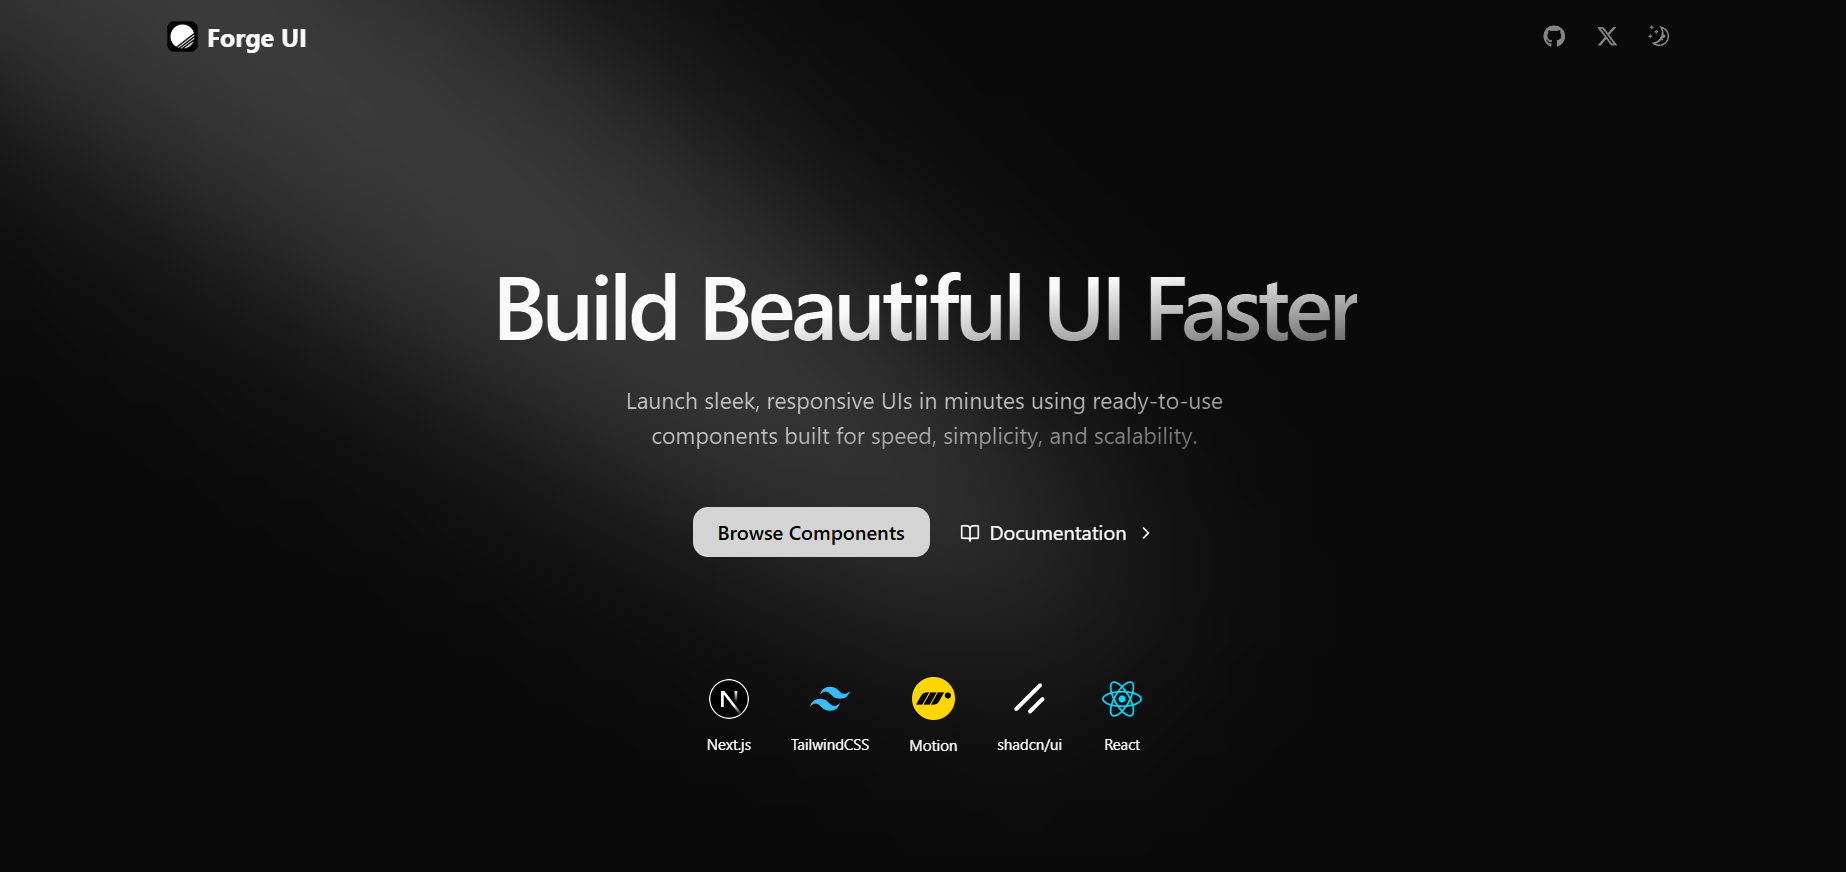
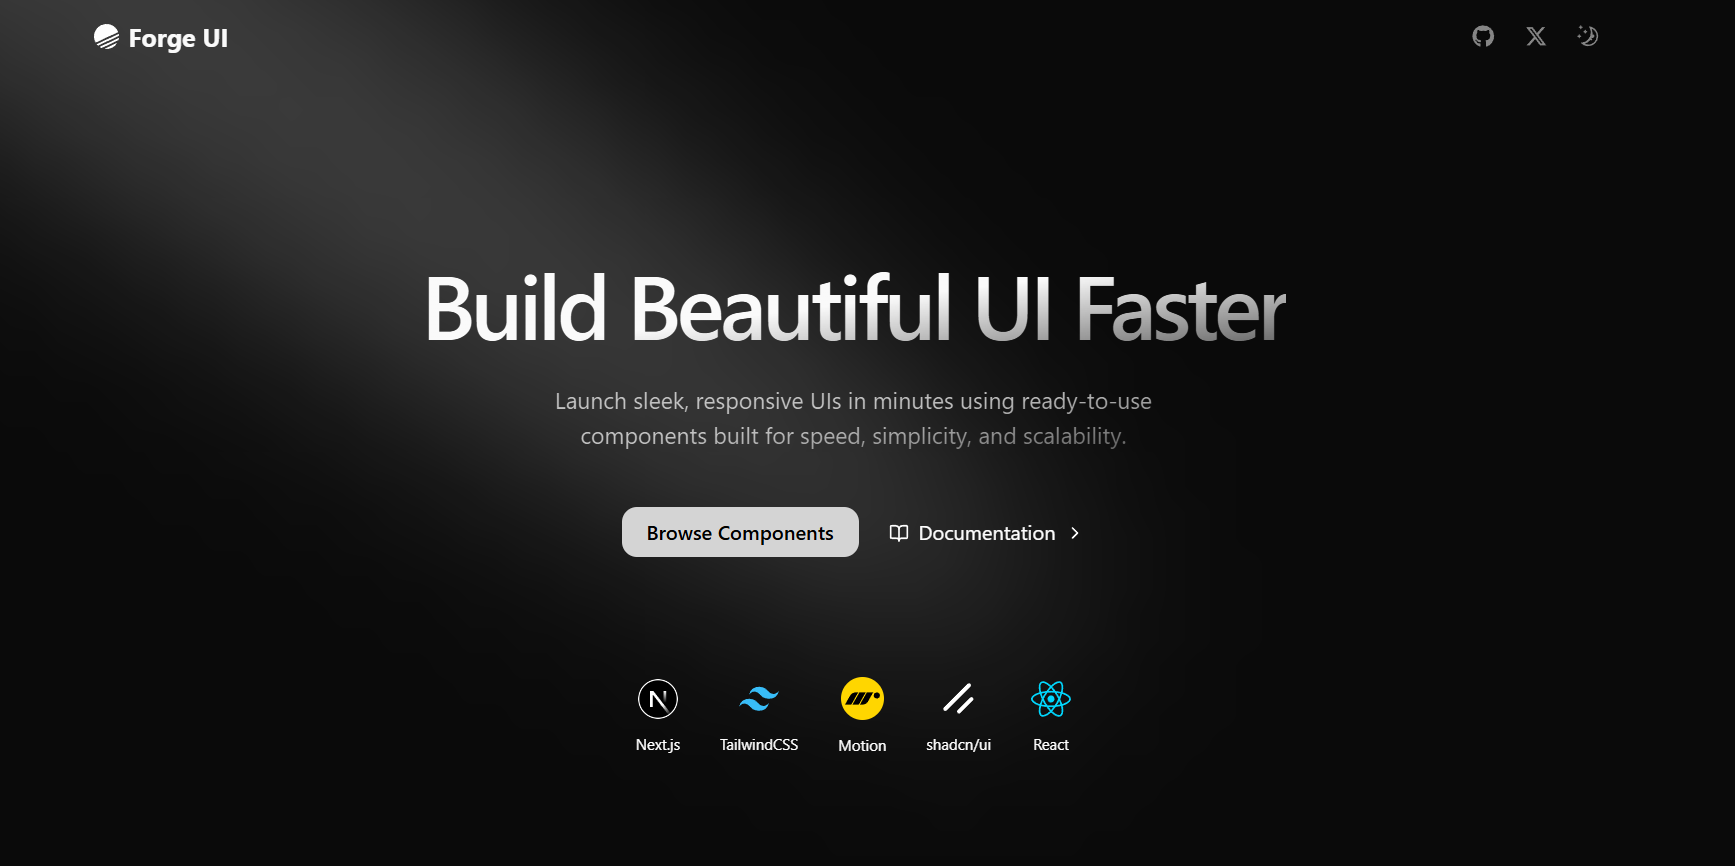
chore: minor changes

diff --git a/components/layout/navbar-drawer.tsx b/components/layout/navbar-drawer.tsx
@@ -10,11 +10,11 @@ import {
 } from "@/components/ui/sheet";
 import { eliteItems, introItems, primaryItems } from "@/contants";
 import { HiOutlineMenuAlt2 } from "react-icons/hi";
-import Image from "next/image";
 import Link from "next/link";
 import TextShimmer from "@/app/(primary)/components/text-shimmer/_components/text-shimmer";
 import Anchor from "../ui/anchor-single";
 import { ScrollArea } from "../ui/scroll-area";
+import { MyIcon } from "../icons/logo";
 
 const NavbarDrawer = () => {
   const sortedPrimaryItems = [...primaryItems].sort((a, b) =>
@@ -33,16 +33,8 @@ const NavbarDrawer = () => {
       <SheetContent side={"left"} className="p-2">
         <SheetHeader>
           <div className="ml-1 mt-2 flex items-center">
-            <Link href="/" className="flex items-center space-x-1.5">
-              <Image
-                src="/logo-ui.png"
-                width={500}
-                height={500}
-                priority={false}
-                alt="Logo"
-                unoptimized={true}
-                className="h-7 w-7 rounded-xl"
-              />
+            <Link href="/" className="flex items-center space-x-2">
+              <MyIcon className="h-5 w-5 text-black dark:text-white" />
               <span className="text-xl font-bold">Forge UI</span>
             </Link>
           </div>

diff --git a/components/landing/landing-navbar.tsx b/components/landing/landing-navbar.tsx
@@ -2,9 +2,9 @@
 import React, { useEffect, useState } from "react";
 import { Themetoggle } from "@/components/ui/ThemeToggle";
 import Link from "next/link";
-import Image from "next/image";
 import { GithubLink, TwitterLink } from "../ui/SocialButtons";
 import { cn } from "@/lib/utils";
+import { MyIcon } from "../icons/logo";
 
 const LandingNavbar = () => {
   const [isScrolled, setIsScrolled] = useState(false);
@@ -35,16 +35,8 @@ const LandingNavbar = () => {
       <div className="mx-auto max-w-7xl px-3 md:px-5 lg:px-8">
         <div className="flex h-[3.7rem] items-center justify-between">
           <div className="flex items-center space-x-12">
-            <Link href="/" className="flex items-center space-x-1.5">
-              <Image
-                src="/logo-ui.png"
-                width={500}
-                height={500}
-                priority={false}
-                alt="Logo"
-                unoptimized={true}
-                className="h-7 w-7 rounded-xl"
-              />
+            <Link href="/" className="flex items-center space-x-2">
+              <MyIcon className="h-5 w-5 text-black dark:text-white" />
               <span className="text-xl font-bold">Forge UI</span>
             </Link>
           </div>

diff --git a/components/layout/footer.tsx b/components/layout/footer.tsx
@@ -1,8 +1,8 @@
 "use client";
 import Link from "next/link";
 import React from "react";
-import Image from "next/image";
 import { CiHeart } from "react-icons/ci";
+import { MyIcon } from "../icons/logo";
 
 const Footer = () => {
   return (
@@ -11,16 +11,8 @@ const Footer = () => {
         <div className="mx-auto flex max-w-full flex-col items-start justify-between pl-4 pr-8 text-sm text-zinc-500 dark:text-zinc-400 sm:flex-row">
           <div>
             <div className="mb-4 flex">
-              <Link href="/" className="flex items-center space-x-1.5">
-                <Image
-                  src="/logo-ui.png"
-                  width={500}
-                  height={500}
-                  priority={false}
-                  alt="Logo"
-                  unoptimized={true}
-                  className="h-7 w-7 rounded-xl"
-                />
+              <Link href="/" className="flex items-center space-x-2">
+                <MyIcon className="h-5 w-5 text-black dark:text-white" />
                 <span className="text-xl font-bold text-black dark:text-white">
                   Forge UI
                 </span>

diff --git a/components/layout/navbar.tsx b/components/layout/navbar.tsx
@@ -7,6 +7,7 @@ import DocumentSearch from "./documentsearch";
 import AnchorNav from "./anchor-nav";
 import { GithubLink, TwitterLink } from "../ui/SocialButtons";
 import NavbarDrawer from "./navbar-drawer";
+import { MyIcon } from "../icons/logo";
 
 const Navbar = () => {
   return (
@@ -14,16 +15,8 @@ const Navbar = () => {
       <div className="mx-auto max-w-[95.8rem] border-x px-2 md:pl-8 md:pr-5">
         <div className="flex h-[3.5rem] items-center justify-between">
           <div className="flex items-center space-x-12">
-            <Link href="/" className="flex items-center space-x-1.5">
-              <Image
-                src="/logo-ui.png"
-                width={500}
-                height={500}
-                priority={false}
-                alt="Logo"
-                unoptimized={true}
-                className="h-7 w-7 rounded-xl"
-              />
+            <Link href="/" className="flex items-center space-x-2">
+              <MyIcon className="h-5 w-5 text-black dark:text-white" />
               <span className="text-xl font-bold">Forge UI</span>
             </Link>
 

diff --git a/components/icons/logo.tsx b/components/icons/logo.tsx
@@ -1,0 +1,14 @@
+export const MyIcon = ({ className = "" }: { className?: string }) => (
+  <svg
+    xmlns="http://www.w3.org/2000/svg"
+    viewBox="0 0 100 100"
+    className={className}
+    fill="none"
+  >
+    <path
+      fill="currentColor"
+      transform="rotate(20 50 50) scale(-1,1) translate(-100,0)"
+      d="M1.225 61.523c-.222-.949.908-1.546 1.597-.857l36.512 36.512c.69.69.092 1.82-.857 1.597-18.425-4.323-32.93-18.827-37.252-37.252ZM.002 46.889a.99.99 0 0 0 .29.76L52.35 99.71c.201.2.478.307.76.29 2.37-.149 4.695-.46 6.963-.927.765-.157 1.03-1.096.478-1.648L2.576 39.448c-.552-.551-1.491-.286-1.648.479a50.067 50.067 0 0 0-.926 6.962ZM4.21 29.705a.988.988 0 0 0 .208 1.1l64.776 64.776c.289.29.726.375 1.1.208a49.908 49.908 0 0 0 5.185-2.684.981.981 0 0 0 .183-1.54L8.436 24.336a.981.981 0 0 0-1.541.183 49.896 49.896 0 0 0-2.684 5.185Zm8.448-11.631a.986.986 0 0 1-.045-1.354C21.78 6.46 35.111 0 49.952 0 77.592 0 100 22.407 100 50.048c0 14.84-6.46 28.172-16.72 37.338a.986.986 0 0 1-1.354-.045L12.659 18.074Z"
+    />
+  </svg>
+);
